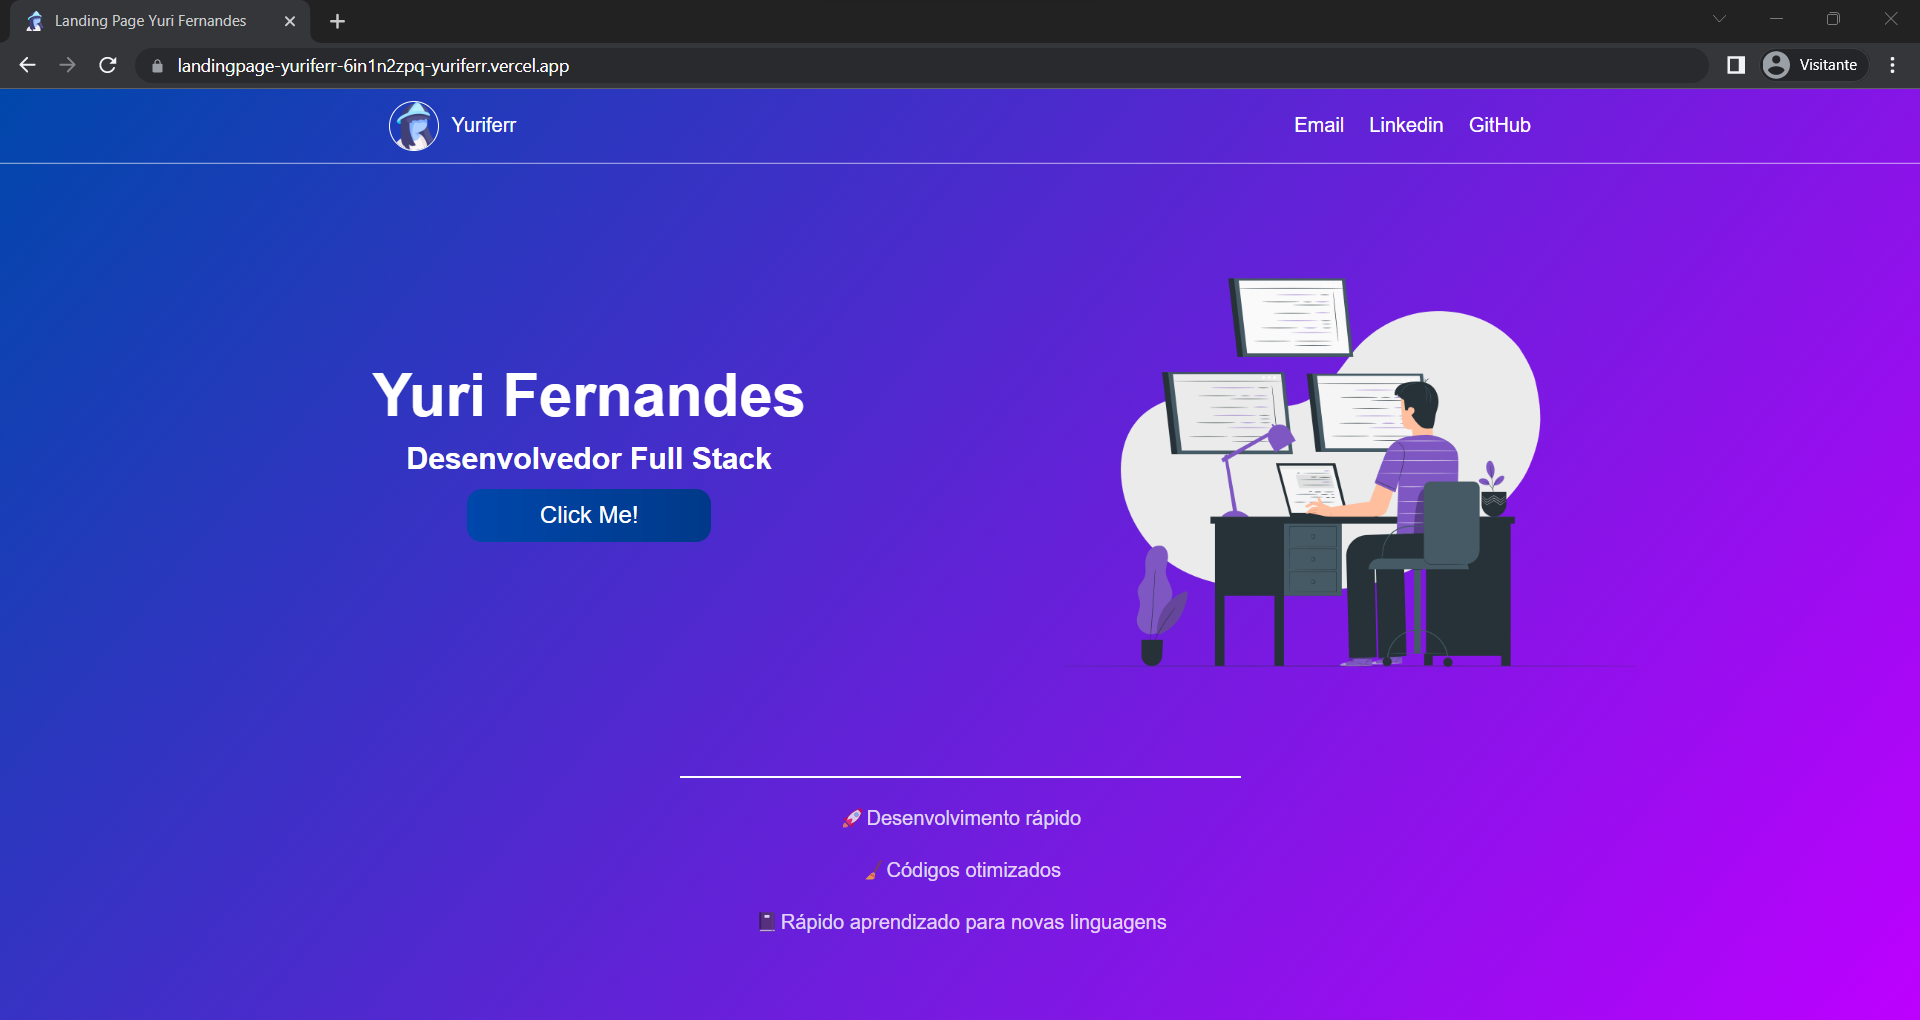
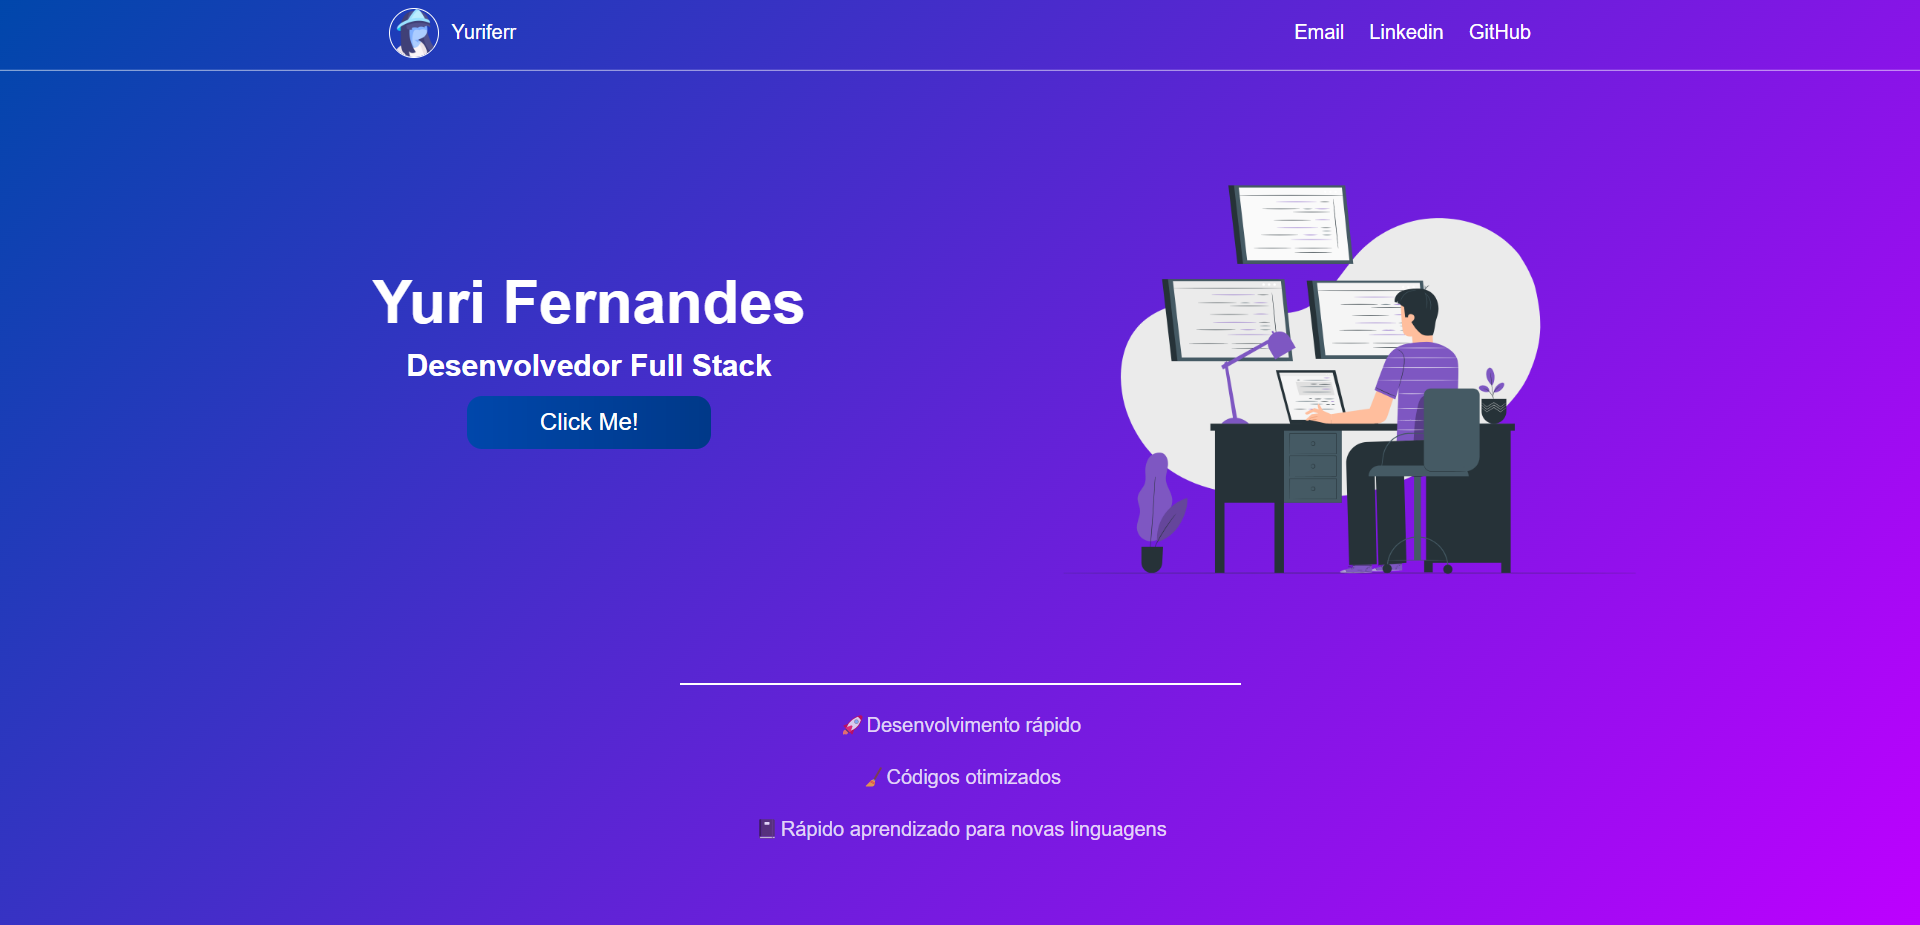
melhorias

diff --git a/web/src/components/Projetos/style.scss b/web/src/components/Projetos/style.scss
@@ -1,6 +1,6 @@
 $ColorPurple: #BD00FF;
 $ColorBlue: #0047AB;
-$ColorBaclk: #181818;
+$ColorBlack: #181818;
 
 .projetos{
     height: fit-content;
@@ -16,11 +16,13 @@ $ColorBaclk: #181818;
     }
     h1{
         text-align: center;
-        color: $ColorBaclk;
+        color: $ColorBlack;
         font-size: 2rem;
     }
     .cards{
         display: flex;
+        justify-content: center;
+        align-items: center;
         @media screen and (max-width: '500px') {
             width: 100%;
             flex-direction: column;
@@ -30,41 +32,58 @@ $ColorBaclk: #181818;
             width: 100%;
             gap: 5%;
         }
-        div{
+        a{
+            text-decoration: none;
+            cursor: pointer;
             width: 100%;
-            overflow: hidden;
-            border-radius: 15px;
-            background-color: $ColorBaclk;
-            position: relative;
-            display: flex;
-            flex-direction: column;
-            @media screen and (max-width: '500px') {
-                width: 100%;
-                padding: 20px 5%;
-                gap: 20px;
-            }
-            @media screen and (min-width: '501px') {
-                padding: 20px 2%;
-                gap: 20px;
-            }
-            img{
+            height: 200px;
+            .posts{
+                background-position: center;
+                object-fit: cover;
+                display: flex;
+                flex-direction: column;
+                justify-content: center;
+                align-items: center;
+                overflow: hidden;
+                position: relative;
                 border-radius: 15px;
-                width: 100%;
-            }
-            .name{
-                color: white;
-                font-size: 1.2rem;
-                text-align: center;
-            }
-            a{
-                text-decoration: none;
-                .link{
-                    font-size: 0.8rem;
+                background-size: cover;
+                background-repeat: no-repeat;
+                @media screen and (max-width: '500px') {
+                    width: 100%;
+                    height: 100%;
+                    padding: 20px 20%;
+                    gap: 20px;
+                }
+                @media screen and (min-width: '501px') {
+                    width: 100%;
+                    height: 100%;
+                    padding: 20px 2%;
+                    gap: 20px;
+                }
+                .fundo{
+                    width: 100%;
+                    height: 100%;
+                    position: absolute;
+                    background-image: linear-gradient(transparent 0%, rgba(0, 0, 0, 0.65) 100%);
+                }
+                .name{
+                    color: $ColorBlack;
+                    font-size: 1.2rem;
                     text-align: center;
-                    color: $ColorBlue;
+                }
+                .images{
+                    width: 100%;
+                    display: flex;
+                    justify-content: center;
+                    align-items: center;
+                    gap: 30px;
+                    img{
+                        width: 30px;
+                        height: 30px;
+                    }
                 }
             }
         }
     }
 }
-

diff --git a/web/src/components/Projetos/index.jsx b/web/src/components/Projetos/index.jsx
@@ -16,16 +16,28 @@ export default function Projetos(){
             name: 'Tela de Login - League of Legends',
             img: loginLeagueOfLegends,
             url: 'https://login-league-of-legends.vercel.app',
+            linguagens: [
+                "https://cdn.jsdelivr.net/gh/devicons/devicon/icons/react/react-original.svg",
+                "https://cdn.jsdelivr.net/gh/devicons/devicon/icons/bootstrap/bootstrap-original.svg",
+            ]
         },
         {
             name: 'Landing Page - Yuriferr',
             img: landingPage,
             url: 'https://landingpage-yuriferr.vercel.app',
+            linguagens: [
+                "https://cdn.jsdelivr.net/gh/devicons/devicon/icons/react/react-original.svg",
+                "https://cdn.jsdelivr.net/gh/devicons/devicon/icons/sass/sass-original.svg",
+            ]
         },
         {
             name: 'Blog Compacto - Deuses Gregos',
             img: siteDeusesGregos,
             url: 'https://blogcompacto-mitologiagrega.vercel.app',
+            linguagens: [
+                "https://cdn.jsdelivr.net/gh/devicons/devicon/icons/react/react-original.svg",
+                "https://cdn.jsdelivr.net/gh/devicons/devicon/icons/sass/sass-original.svg",
+            ]
         }
     ])
 
@@ -35,11 +47,21 @@ export default function Projetos(){
             <div className="cards">
                 {projetos.map((item, index) => {
                     return(
-                        <div data-aos="fade-in">
-                            <img data-aos="zoom-in" src={item.img}/>
-                            <p data-aos="zoom-in" className="name">{item.name}</p>
-                            <a data-aos="zoom-in" target='_blank' href={item.url}><p className="link">{item.url}</p></a>
-                        </div>
+                        <a target="_blank" href={item.url}>
+                            <div className="posts" data-aos="zoom-in" style={{backgroundImage : `url(${item.img})`}}>
+                                <div className="fundo"/>
+                                <p data-aos="zoom-in" className="name">{item.name}</p>
+                                <div className="images">
+                                    {item.linguagens.map((item, index) => {
+                                        return(
+                                            <div data-aos="zoom-in" key={index}>
+                                                <img src={item}/>
+                                            </div>
+                                        )
+                                    })}
+                                </div>
+                            </div>
+                        </a>
                     )
                 })}
             </div>

diff --git a/web/src/components/Apresentacao/index.jsx b/web/src/components/Apresentacao/index.jsx
@@ -7,6 +7,8 @@ import AOS from 'aos';
 import 'aos/dist/aos.css';
 AOS.init();
 
+import { BsLinkedin, BsGithub,  } from 'react-icons/bs'
+
 export default function Apresentacao(){
 
 
@@ -15,6 +17,14 @@ export default function Apresentacao(){
             <div data-aos="fade-right" className="infos">
                 <h1>Yuri Fernandes</h1>
                 <h3>Desenvolvedor Full Stack</h3>
+                <div className="icons">
+                    <a target="_blank" href="https://www.linkedin.com/in/yuriferr">
+                        <BsLinkedin size={30} color="white"/>
+                    </a>
+                    <a target="_blank" href="https://github.com/Yuriferr">
+                        <BsGithub size={30} color="white"/>
+                    </a>
+                </div>
             </div>
 
             <div data-aos="zoom-in" className="img">

diff --git a/web/src/components/Apresentacao/style.scss b/web/src/components/Apresentacao/style.scss
@@ -1,6 +1,6 @@
 $ColorPurple: #BD00FF;
 $ColorBlue: #0047AB;
-$ColorBaclk: #181818;
+$ColorBlack: #181818;
 $ColorTranslucentWhite: rgba(255, 255, 255, 0.2);
 
 .apresentacao{
@@ -52,9 +52,20 @@ $ColorTranslucentWhite: rgba(255, 255, 255, 0.2);
                 font-size: 1.7rem;
             }
         }
+        .icons{
+            width: 100%;
+            display: flex;
+            justify-content: center;
+            align-items: center;
+            gap: 20px;
+            a{
+                text-decoration: none;
+                cursor: pointer;
+            }
+        }
     }
     .img{
-        background-color: $ColorBaclk;
+        background-color: $ColorBlack;
         border-radius: 15px;
         @media screen and (max-width : '500px') {
             width: 100%;

diff --git a/web/src/components/Conhecimentos/style.scss b/web/src/components/Conhecimentos/style.scss
@@ -1,5 +1,5 @@
 $ColorTranslucentWhite: rgba(255, 255, 255, 0.2);
-$ColorBaclk: #181818;
+$ColorBlack: #181818;
 
 .conhecimentos{
     width: 70%;
@@ -43,7 +43,7 @@ $ColorBaclk: #181818;
         }
     }
     h1{
-        color: $ColorBaclk;
+        color: $ColorBlack;
         @media screen and (max-width : '500px') {
             margin-bottom: 10px;
          }

diff --git a/web/src/components/Sobre/style.scss b/web/src/components/Sobre/style.scss
@@ -1,8 +1,8 @@
-$ColorBaclk: #181818;
+$ColorBlack: #181818;
 
 .sobre{
     height: fit-content;
-    background-color: $ColorBaclk;
+    background-color: $ColorBlack;
     border-radius: 15px;
     display: flex;
     flex-direction: column;
